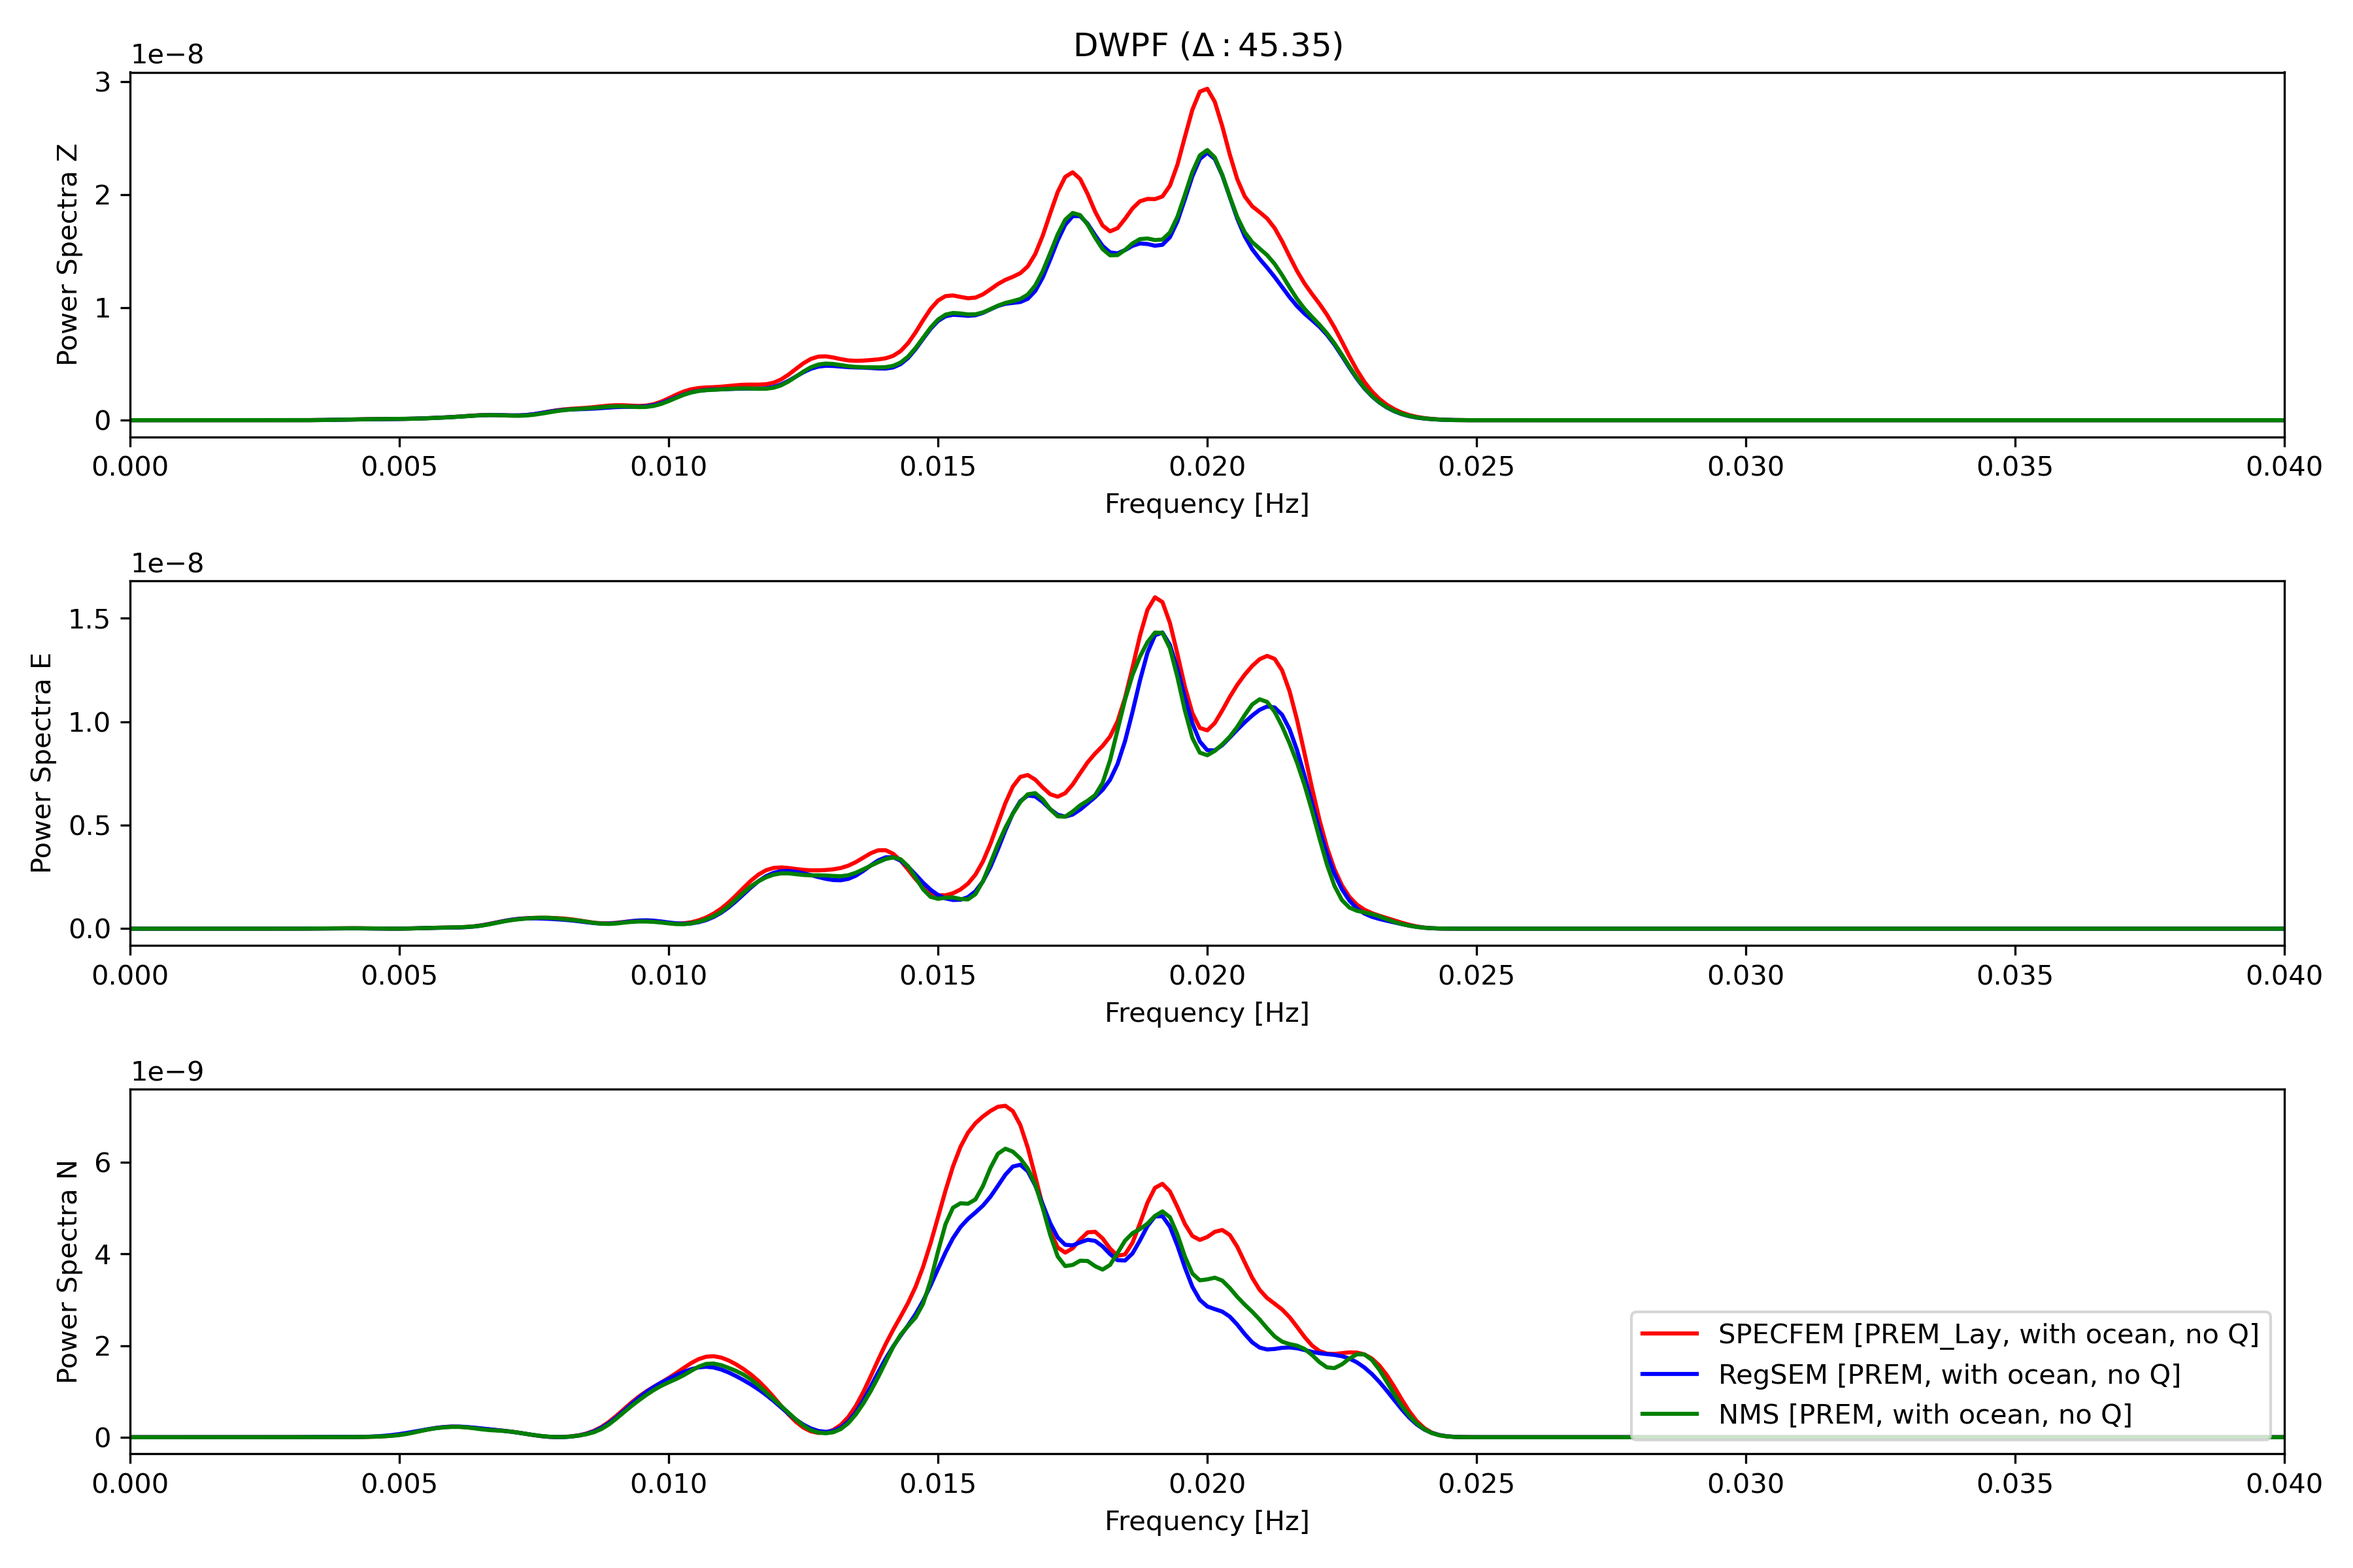
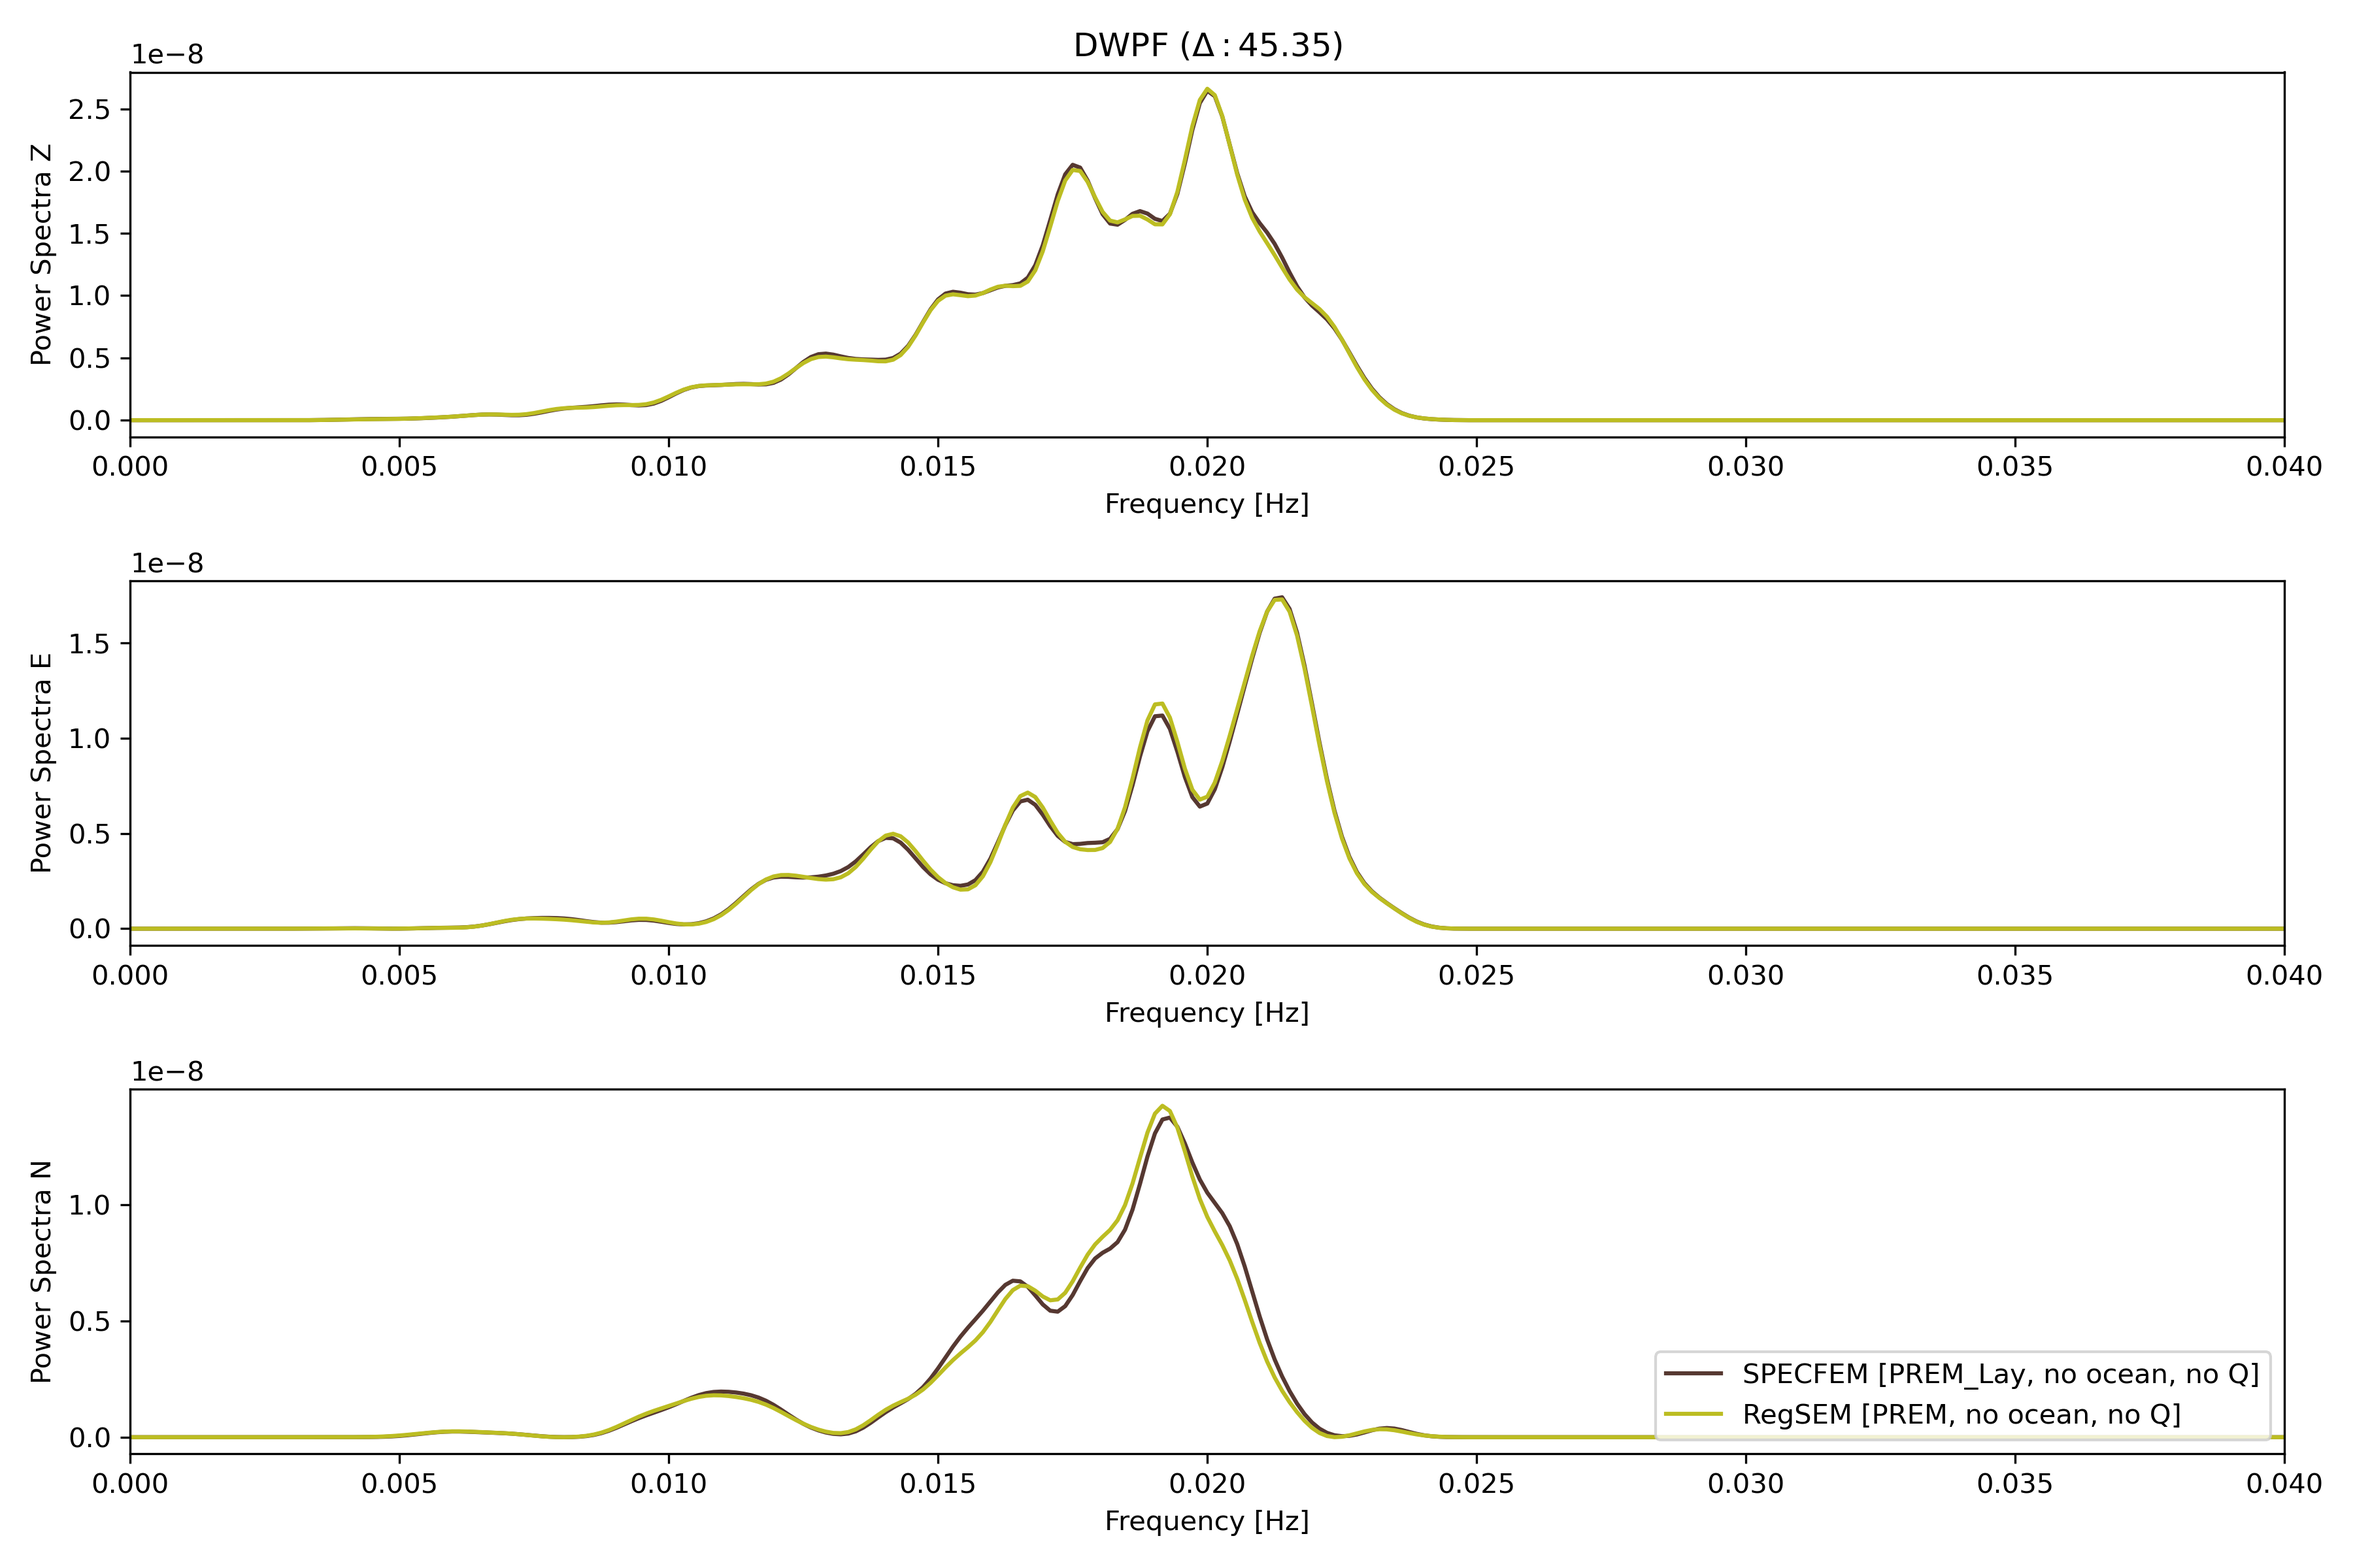
Compared RegSEM with SPECFEM for no ocean, no topography

diff --git a/check_traces_single_station.py b/check_traces_single_station.py
@@ -91,8 +91,8 @@ for plot_in in ['frequency', 'time']:
     label3 = params['nms']['label']
     simulation_type3 = 'nms'
 
-    path4 = params['regsem2']['outputLoc']
-    label4 = params['regsem2']['label']
+    path4 = params['regsem_no_ocean']['outputLoc']
+    label4 = params['regsem_no_ocean']['label']
     simulation_type4 = 'regsem'
 
     path5 = params['specfem_poly']['outputLoc']
@@ -268,6 +268,12 @@ for plot_in in ['frequency', 'time']:
                                     sem_path2[:, 1], label=label2, color=params['regsem']['color'], ls=params['regsem']['lineStyle'])
                             sem_path_dict['regPath'] = sem_path2
                             sem_path_dict['regLab'] = label2
+                            
+                        if params['plot_toggles']['regsem_no_ocean']:
+                            plt.plot(sem_path4[:, 0]-tshift,
+                                    sem_path4[:, 1], label=label4, color=params['regsem_no_ocean']['color'], ls=params['regsem_no_ocean']['lineStyle'])
+                            sem_path_dict['regPath'] = sem_path4
+                            sem_path_dict['regLab'] = label4
 
                         if params['plot_toggles']['nms']:
                             plt.plot(sem_path3[:, 0]-tshift,
@@ -276,7 +282,7 @@ for plot_in in ['frequency', 'time']:
                             sem_path_dict['nmsLab'] = label3
                         
                         # plt.plot(sem_path4[:, 0]-tshift,
-                        #          sem_path4[:, 1], label=label4, color=params['regsem2']['color'], ls=params['regsem2']['lineStyle'])
+                        #          sem_path4[:, 1], label=label4, color=params['regsem4']['color'], ls=params['regsem_no_ocean']['lineStyle'])
                         if params['plot_toggles']['diff']:
                             diff_sem_path1 = sem_path_dict['specPath']
                             diff_sem_path2 = sem_path_dict['regPath']
@@ -370,6 +376,15 @@ for plot_in in ['frequency', 'time']:
                                 data=resampled[idx], sampling_rate=1/dt)
                             plt.plot(freq, power_spectrum2, color=params['regsem']['color'],
                                     label=label2, linewidth=1.5)
+
+                        ## regsem_no_ocean 
+                        if params['plot_toggles']['regsem_no_ocean']:
+                            resampled = np.interp(
+                                sem_path1[:, 0], sem_path4[:, 0], sem_path4[:, 1])
+                            freq, power_spectrum4 = spectra(
+                                data=resampled[idx], sampling_rate=1/dt)
+                            plt.plot(freq, power_spectrum4, color=params['regsem_no_ocean']['color'],
+                                    label=label4, linewidth=1.5)
 
                         #nms
                         if params['plot_toggles']['nms']:

diff --git a/README.md b/README.md
@@ -16,6 +16,7 @@
 - Compared the Specfem Layered with Polynomial
 - Compared the Specfem Layered with ocean vs Specfem layered without ocean
 - Compared RegSEM with Normal-mode synthetics 
+- Compared RegSEM with SPECFEM for no ocean, no topography: matches very well
 - Compared the SPECFEM runs for R_EARTH = 6371 and 6368 km
 - Compared SPECFEM with/without elevated receivers
 - Compared SPECFEM with SPECFEM version with etopo values 0
@@ -43,13 +44,13 @@ Model: **Preliminary Earth Reference Model**, with the ocean layer of thickness 
 
 <hr>
 <p align="center">
-<img src="figures/BBB_time.png" alt="BBB Time" />
+<img src="example_comp_nms_regsem_specfem/BBB_time.png" alt="BBB Time" />
 </p>
 <p align="center"><b>BBB Time</b></p>
 <hr>
 
 <p align="center">
-<img src="figures/BBB_frequency.png" alt="BBB Frequency" />
+<img src="example_comp_nms_regsem_specfem/BBB_frequency.png" alt="BBB Frequency" />
 </p>
 <p align="center"><b>BBB Frequency</b></p>
 <hr>
